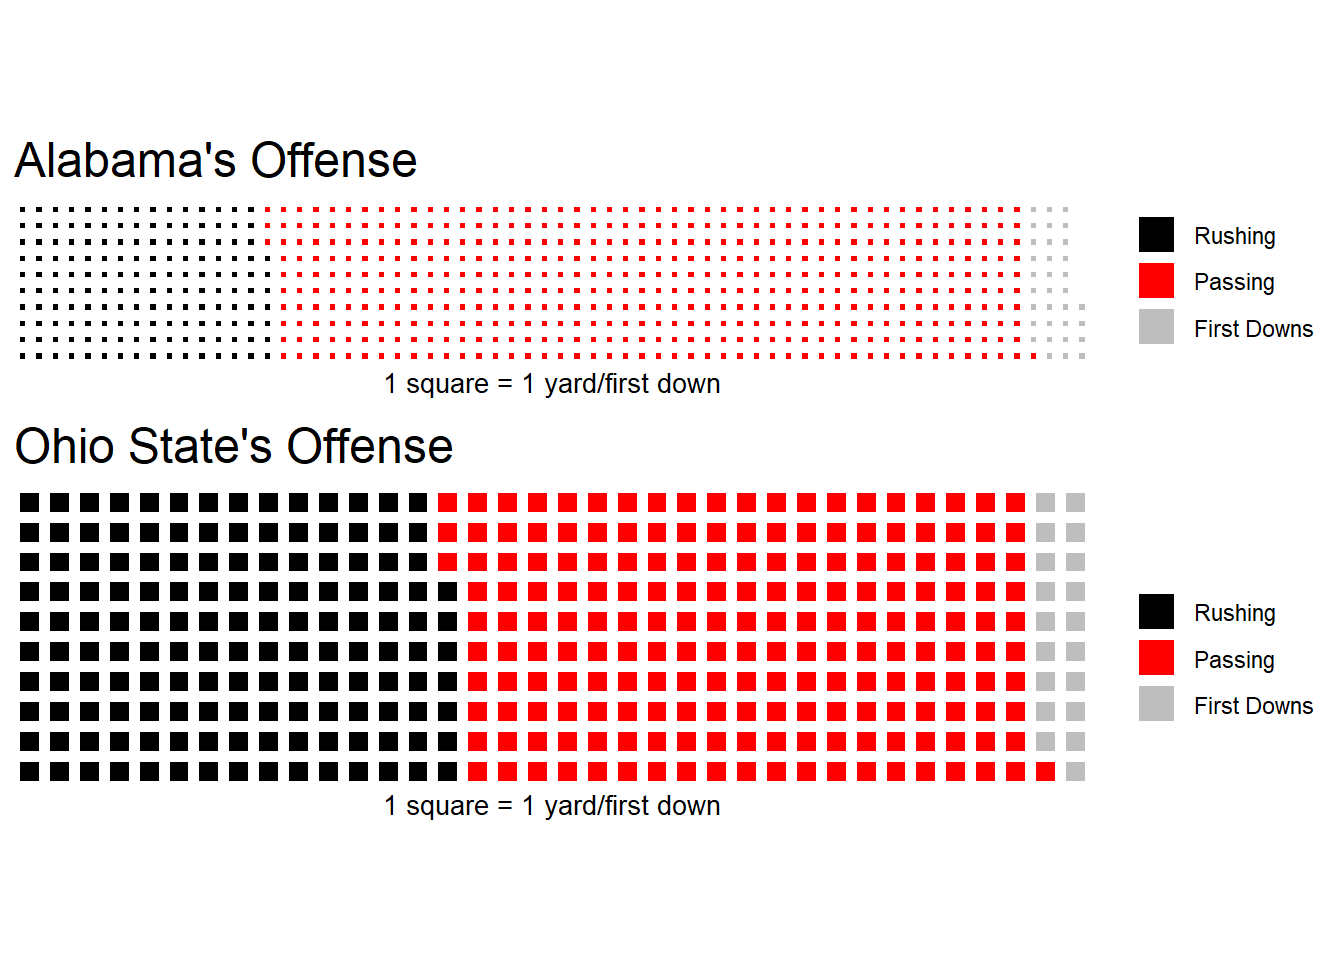
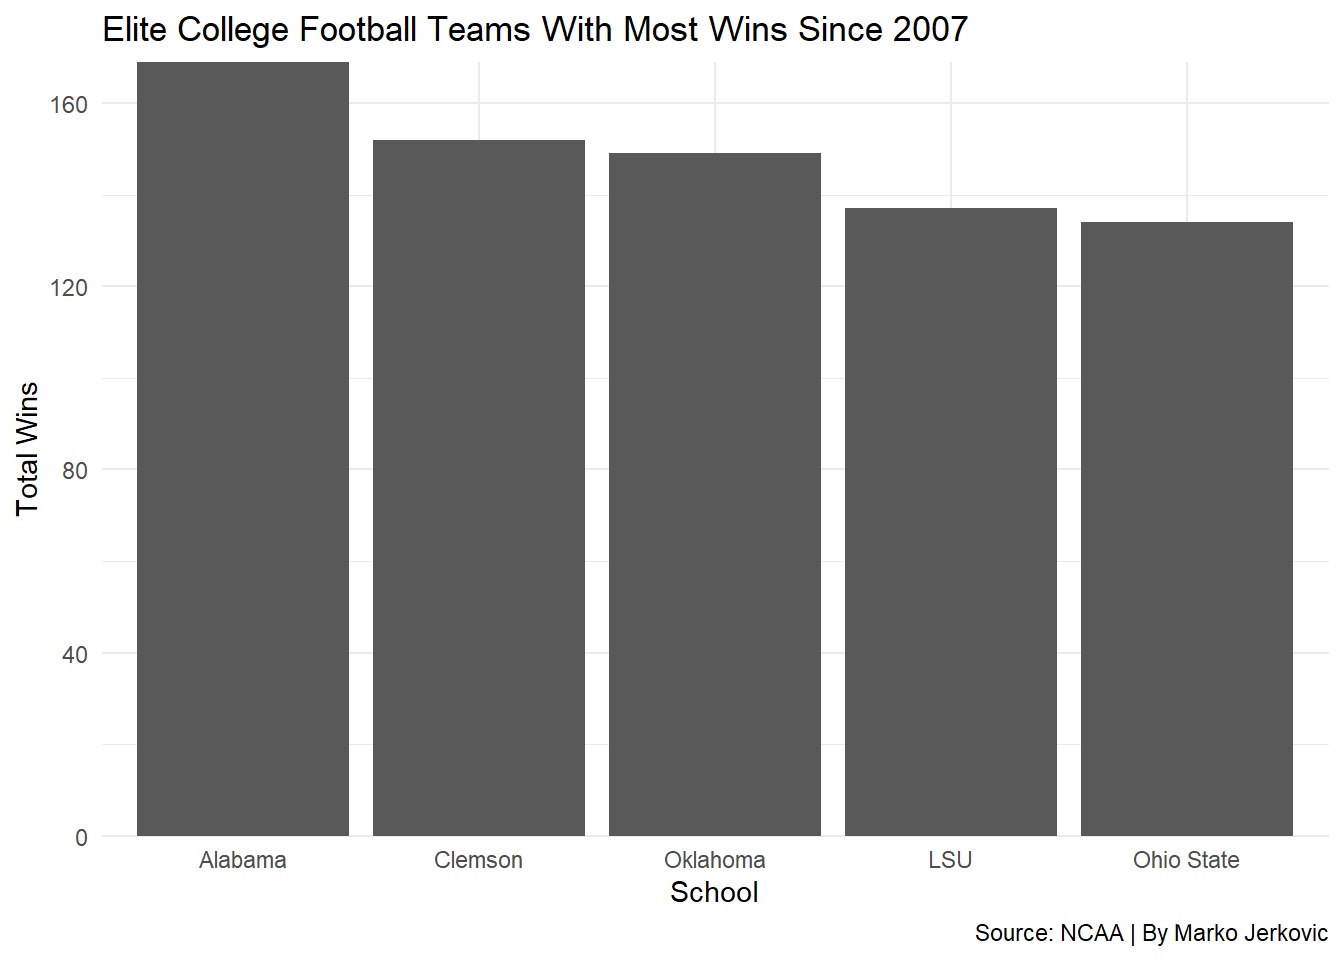
Finishing everything, but for real this time.

diff --git a/2021/04/04/alabama-s-football-dominance/index.html b/2021/04/04/alabama-s-football-dominance/index.html
@@ -6,8 +6,8 @@
 <meta name="generator" content="Hugo 0.81.0" />
 
 
-<title>Alabama&#39;s Football Dominance - Marko Jerkovic&#39;s Gitbub Site</title>
-<meta property="og:title" content="Alabama&#39;s Football Dominance - Marko Jerkovic&#39;s Gitbub Site">
+<title>How Dominant Has Alabama Football Been In the Nick Saban Era? - Marko Jerkovic&#39;s Gitbub Site</title>
+<meta property="og:title" content="How Dominant Has Alabama Football Been In the Nick Saban Era? - Marko Jerkovic&#39;s Gitbub Site">
 
 
   <link href='http://markojerkovic.github.io/favicon.ico' rel='icon' type='image/x-icon'/>
@@ -62,10 +62,10 @@
 
   <article class="article">
     
-    <span class="article-duration">4 min read</span>
+    <span class="article-duration">6 min read</span>
     
 
-    <h1 class="article-title">Alabama&#39;s Football Dominance</h1>
+    <h1 class="article-title">How Dominant Has Alabama Football Been In the Nick Saban Era?</h1>
 
     
     <span class="article-date">2021-04-04</span>
@@ -78,7 +78,7 @@
 <p>The key to prolonged success is adaptability.</p>
 <p>Nick Saban is the greatest college football coach of all time. His Alabama Crimson Tide teams of the last 15 seasons have been some of the greatest of all time, both in their consistency and dominance.</p>
 <p>They haven’t always won the same way. Through the many eras of Nick Saban’s tenure his teams have looked and played drastically different.</p>
-<p>Nick Saban has and always will be a defensive coach and therefore his teams at Alabama for the first decade were dominant defensive and offensively focused on running the ball.</p>
+<p>Nick Saban has and always will be a defensive coach and therefore his teams at Alabama for the first decade were dominant defensive and offensively focused on running the ball and not making mistakes.</p>
 <p>First we can look at this chart and see how Nick Saban’s offenses have performed historically.</p>
 <pre class="r"><code>library(tidyverse)</code></pre>
 <pre><code>## -- Attaching packages --------------------------------------- tidyverse 1.3.0 --</code></pre>
@@ -102,17 +102,9 @@ library(scales)</code></pre>
 <pre><code>## The following object is masked from &#39;package:readr&#39;:
 ## 
 ##     col_factor</code></pre>
+<pre class="r"><code>library(ggbump)</code></pre>
+<pre><code>## Warning: package &#39;ggbump&#39; was built under R version 4.0.4</code></pre>
 <pre class="r"><code>alabama &lt;- read.csv(&quot;data/alabamafootball.csv&quot;)</code></pre>
-<pre class="r"><code>glimpse(alabama)</code></pre>
-<pre><code>## Rows: 14
-## Columns: 5
-## $ Year    &lt;int&gt; 2020, 2019, 2018, 2017, 2016, 2015, 2014, 2013, 2012, 2011,...
-## $ OffRank &lt;int&gt; 2, 2, 3, 15, 16, 30, 16, 17, 12, 20, 18, 22, 35, 65
-## $ PPG     &lt;dbl&gt; 48.5, 47.2, 45.6, 37.1, 38.8, 35.1, 36.9, 38.2, 38.7, 34.8,...
-## $ DefRank &lt;int&gt; 13, 13, 12, 1, 1, 3, 6, 4, 1, 1, 3, 2, 7, 28
-## $ OppPPG  &lt;dbl&gt; 19.4, 18.6, 18.1, 11.9, 13.0, 15.1, 18.4, 13.9, 10.9, 8.2, ...</code></pre>
-<pre class="r"><code>names(alabama)</code></pre>
-<pre><code>## [1] &quot;Year&quot;    &quot;OffRank&quot; &quot;PPG&quot;     &quot;DefRank&quot; &quot;OppPPG&quot;</code></pre>
 <pre class="r"><code>ggplot() + 
   geom_point(
     data=alabama, 
@@ -125,7 +117,9 @@ labs(title=&quot;Alabama&#39;s Offense Under Nick Saban&quot;, subtitle=&quot;Th
     plot.subtitle = element_text(size=10), 
     panel.grid.minor = element_blank()
     )</code></pre>
-<p><img src="http://markojerkovic.github.io/2021/04/04/alabama-s-football-dominance/index_files/figure-html/unnamed-chunk-4-1.png" width="672" /></p>
+<p><img src="http://markojerkovic.github.io/2021/04/04/alabama-s-football-dominance/index_files/figure-html/unnamed-chunk-3-1.png" width="672" /></p>
+<p>As we can see, the offense was consistently above average in the nation in the first ten seasons, but over the last three years, since winning the 2017 National Championship, they’ve become elite.</p>
+<p>Now let’s take a look at how Saban’s defenses have fared over the same stretch.</p>
 <pre class="r"><code>ggplot() + 
   geom_point(
     data=alabama, 
@@ -138,19 +132,22 @@ labs(title=&quot;Alabama&#39;s Defense Under Nick Saban&quot;, subtitle=&quot;It
     plot.subtitle = element_text(size=10), 
     panel.grid.minor = element_blank()
     )</code></pre>
-<p><img src="http://markojerkovic.github.io/2021/04/04/alabama-s-football-dominance/index_files/figure-html/unnamed-chunk-5-1.png" width="672" /></p>
+<p><img src="http://markojerkovic.github.io/2021/04/04/alabama-s-football-dominance/index_files/figure-html/unnamed-chunk-4-1.png" width="672" /></p>
+<p>As we can see, Saban’s defenses quickly became among the best in the nation and did not exit the top 10 again until the 2018 season, just as the offensive improvement began to take shape.</p>
+<p>To show even more context to how dominant Alabama has been we can also look at their final position in the AP Poll every year since 2008.</p>
 <pre class="r"><code>finalrankings &lt;- read.csv(&quot;data/finalrankings.csv&quot;)</code></pre>
-<pre class="r"><code>glimpse(finalrankings)</code></pre>
-<pre><code>## Rows: 13
-## Columns: 2
-## $ Year          &lt;int&gt; 2020, 2019, 2018, 2017, 2016, 2015, 2014, 2013, 2012,...
-## $ Final.Ranking &lt;int&gt; 1, 8, 2, 1, 2, 1, 4, 7, 1, 1, 10, 1, 6</code></pre>
-<pre class="r"><code>names(finalrankings)</code></pre>
-<pre><code>## [1] &quot;Year&quot;          &quot;Final.Ranking&quot;</code></pre>
-<pre class="r"><code>ggplot() + 
-  geom_line(data=finalrankings, aes(x=Year, y=Final.Ranking)) + 
-  scale_y_continuous(limits = c(1, 10))</code></pre>
-<p><img src="http://markojerkovic.github.io/2021/04/04/alabama-s-football-dominance/index_files/figure-html/unnamed-chunk-8-1.png" width="672" /></p>
+<pre class="r"><code>ggplot() + geom_bump(data=finalrankings, aes(x=Year, y=Final.Ranking, color=&quot;Alabama&quot;)) +
+ geom_point(data=finalrankings, aes(x=Year, y=Final.Ranking, color=&quot;Alabama&quot;), size = 4) +  
+scale_y_reverse() +
+labs(title=&quot;End of Season AP Poll Position For Alabama&quot;, subtitle=&quot;Alabama has been unbelievably consistent during the Nick Saban era&quot;, y= &quot;Final Ranking&quot;, x = &quot;Year&quot;, caption=&quot;Source: NCAA | By Marko Jerkovic&quot;) +
+  theme_minimal() +
+  theme(
+    legend.position = &quot;none&quot;,
+    panel.grid.major = element_blank()
+    ) </code></pre>
+<p><img src="http://markojerkovic.github.io/2021/04/04/alabama-s-football-dominance/index_files/figure-html/unnamed-chunk-6-1.png" width="672" /></p>
+<p>As we can see, despite the recent shift from defensive dominance to offensive dominance, the team has remained steady in their success. Alabama has finished the season in the AP Poll Top 10 every season of the Saban era, with the lone exception of 2007, Saban’s first year in Tuscaloosa.</p>
+<p>Now let’s take a look at a smaller and more specific example of Alabama’s shift in philosophy, while maintaining success. For this we will look at Alabama’s first and most recent national championship games, against Texas and Ohio State respectively.</p>
 <pre class="r"><code>al &lt;- c(&quot;Rushing&quot;=205, &quot;Passing&quot;=58, &quot;First Downs&quot;=16)
 tx &lt;- c(&quot;Rushing&quot;=81, &quot;Passing&quot;=195, &quot;First Downs&quot;=15)</code></pre>
 <pre class="r"><code>iron(
@@ -167,7 +164,7 @@ tx &lt;- c(&quot;Rushing&quot;=81, &quot;Passing&quot;=195, &quot;First Downs&qu
         colors = c(&quot;black&quot;, &quot;orange&quot;, &quot;grey&quot;)
         )
 )</code></pre>
-<p><img src="http://markojerkovic.github.io/2021/04/04/alabama-s-football-dominance/index_files/figure-html/unnamed-chunk-10-1.png" width="672" /></p>
+<p><img src="http://markojerkovic.github.io/2021/04/04/alabama-s-football-dominance/index_files/figure-html/unnamed-chunk-8-1.png" width="672" /></p>
 <pre class="r"><code>al &lt;- c(&quot;Rushing&quot;=157, &quot;Passing&quot;=464, &quot;First Downs&quot;=33)
 oh &lt;- c(&quot;Rushing&quot;=147, &quot;Passing&quot;=194, &quot;First Downs&quot;=19)</code></pre>
 <pre class="r"><code>iron(
@@ -184,7 +181,12 @@ oh &lt;- c(&quot;Rushing&quot;=147, &quot;Passing&quot;=194, &quot;First Downs&q
         colors = c(&quot;black&quot;, &quot;red&quot;, &quot;grey&quot;)
         )
 )</code></pre>
-<p><img src="http://markojerkovic.github.io/2021/04/04/alabama-s-football-dominance/index_files/figure-html/unnamed-chunk-12-1.png" width="672" /></p>
+<p><img src="http://markojerkovic.github.io/2021/04/04/alabama-s-football-dominance/index_files/figure-html/unnamed-chunk-10-1.png" width="672" /></p>
+<p>In 2009, the Crimson Tide’s defense and rushing attack trampled the Longhorns in a performance which included forcing five turnovers and four rushing touchdowns, while Greg McElroy floundered with just six completions and 58 passing yards.</p>
+<p>In 2020, Mac Jones and DeVonta Smith torched the Buckeyes, connecting for 215 yards and three touchdowns. Jones threw over 400 more passing yards than McElroy did in 2009, while also throwing five passing touchdowns.</p>
+<p>The most outstanding part for the Crimson Tide was the fact that they still had a strong defensive game and had a comparable rushing attack to that of the Buckeyes.</p>
+<p>This example shows that while Alabama has drastically improved their passing attack, they have remained well above average in their rushing game and on the defensive side of the ball as well.</p>
+<p>Next, we can go back to looking at the big picture, this time with other elite college football programs to compare to Alabama. First, we’ll look at these teams’ total wins since Nick Saban was hired at Alabama in 2007.</p>
 <pre class="r"><code>elite &lt;- read_csv(&quot;data/elitecfbteams.csv&quot;)</code></pre>
 <pre><code>## 
 ## -- Column specification --------------------------------------------------------
@@ -195,36 +197,31 @@ oh &lt;- c(&quot;Rushing&quot;=147, &quot;Passing&quot;=194, &quot;First Downs&q
 ##   `National Championships` = col_double(),
 ##   `Heisman Trophy Finalists` = col_double()
 ## )</code></pre>
-<pre class="r"><code>glimpse(elite)</code></pre>
-<pre><code>## Rows: 5
-## Columns: 5
-## $ Team                       &lt;chr&gt; &quot;Alabama&quot;, &quot;Clemson&quot;, &quot;Ohio State&quot;, &quot;Okl...
-## $ `Total Wins`               &lt;dbl&gt; 169, 152, 134, 149, 137
-## $ `Conference Titles`        &lt;dbl&gt; 7, 7, 8, 7, 3
-## $ `National Championships`   &lt;dbl&gt; 6, 2, 1, 0, 2
-## $ `Heisman Trophy Finalists` &lt;dbl&gt; 8, 3, 3, 6, 2</code></pre>
-<pre class="r"><code>names(elite)</code></pre>
-<pre><code>## [1] &quot;Team&quot;                     &quot;Total Wins&quot;              
-## [3] &quot;Conference Titles&quot;        &quot;National Championships&quot;  
-## [5] &quot;Heisman Trophy Finalists&quot;</code></pre>
 <pre class="r"><code>ggplot() + 
   geom_bar(data=elite, aes(x=reorder(Team, - `Total Wins`), weight=`Total Wins`)) + 
   scale_y_continuous(labels=comma, expand = c(0,0)) + 
   labs(
     title=&quot;Elite College Football Teams With Most Wins Since 2007&quot;, 
     x=&quot;School&quot;, 
-    y=&quot;Total Wins&quot;) +
+    y=&quot;Total Wins&quot;,
+    caption=&quot;Source: NCAA | By Marko Jerkovic&quot;) +
   theme_minimal()</code></pre>
-<p><img src="http://markojerkovic.github.io/2021/04/04/alabama-s-football-dominance/index_files/figure-html/unnamed-chunk-15-1.png" width="672" /></p>
+<p><img src="http://markojerkovic.github.io/2021/04/04/alabama-s-football-dominance/index_files/figure-html/unnamed-chunk-12-1.png" width="672" /></p>
+<p>As we can see, with 169 total wins since 2007, Alabama is far ahead of the pack, with Clemson the next closest at 152 total wins over the same span.</p>
+<p>Lastly, we’ll look at the most impressive stat of the Nick Saban era at Alabama, national championships.</p>
 <pre class="r"><code>ggplot() + 
   geom_bar(data=elite, aes(x=reorder(Team, - `National Championships`), weight=`National Championships`)) + 
   scale_y_continuous(labels=comma, expand = c(0,0)) + 
   labs(
     title=&quot;College Football Teams With Most National Championships Since 2007&quot;, 
     x=&quot;School&quot;, 
-    y=&quot;Total Wins&quot;) +
+    y=&quot;Total Wins&quot;, 
+    caption=&quot;Source: NCAA | By Marko Jerkovic&quot;) +
   theme_minimal()</code></pre>
-<p><img src="http://markojerkovic.github.io/2021/04/04/alabama-s-football-dominance/index_files/figure-html/unnamed-chunk-16-1.png" width="672" /></p>
+<p><img src="http://markojerkovic.github.io/2021/04/04/alabama-s-football-dominance/index_files/figure-html/unnamed-chunk-13-1.png" width="672" /></p>
+<p>Impressively, Alabama has more national championships than Clemson, LSU, Ohio State and Oklahoma combined since 2007. Nick Saban has clearly outcoached and outclassed all of his contemporaries during his time at Alabama.</p>
+<p>Nick Saban’s tenure at Alabama has been the most dominant of this era of college football and is one of the dominant runs of all time.</p>
+<p>One last interesting piece of information, Nick Saban is only 70 years old and has said that he hopes to coach as long as he can. For the rest of college football, that’s the scariest stat of all.</p>
 
     </div>
   </article>
@@ -261,9 +258,6 @@ oh &lt;- c(&quot;Rushing&quot;=147, &quot;Passing&quot;=194, &quot;First Downs&q
 
 
     
-<script src="/js/math-code.js"></script>
-<script async src="//cdnjs.cloudflare.com/ajax/libs/mathjax/2.7.5/MathJax.js?config=TeX-MML-AM_CHTML"></script>
-
 
     
   </body>

diff --git a/categories/r/index.html b/categories/r/index.html
@@ -72,7 +72,7 @@
     </article>
     
     <article class="archive-item">
-      <a href="/2021/04/04/alabama-s-football-dominance/" class="archive-item-link">Alabama&#39;s Football Dominance</a>
+      <a href="/2021/04/04/alabama-s-football-dominance/" class="archive-item-link">How Dominant Has Alabama Football Been In the Nick Saban Era?</a>
       <span class="archive-item-date">
         2021-04-04
       </span>

diff --git a/index.html b/index.html
@@ -75,7 +75,7 @@
     </article>
     
     <article class="archive-item">
-      <a href="/2021/04/04/alabama-s-football-dominance/" class="archive-item-link">Alabama&#39;s Football Dominance</a>
+      <a href="/2021/04/04/alabama-s-football-dominance/" class="archive-item-link">How Dominant Has Alabama Football Been In the Nick Saban Era?</a>
       <span class="archive-item-date">
         2021-04-04
       </span>

diff --git a/post/index.html b/post/index.html
@@ -72,7 +72,7 @@
     </article>
     
     <article class="archive-item">
-      <a href="/2021/04/04/alabama-s-football-dominance/" class="archive-item-link">Alabama&#39;s Football Dominance</a>
+      <a href="/2021/04/04/alabama-s-football-dominance/" class="archive-item-link">How Dominant Has Alabama Football Been In the Nick Saban Era?</a>
       <span class="archive-item-date">
         2021-04-04
       </span>

diff --git a/tags/alabama-football/index.html b/tags/alabama-football/index.html
@@ -72,7 +72,7 @@
     </article>
     
     <article class="archive-item">
-      <a href="/2021/04/04/alabama-s-football-dominance/" class="archive-item-link">Alabama&#39;s Football Dominance</a>
+      <a href="/2021/04/04/alabama-s-football-dominance/" class="archive-item-link">How Dominant Has Alabama Football Been In the Nick Saban Era?</a>
       <span class="archive-item-date">
         2021-04-04
       </span>

diff --git a/tags/college-football/index.html b/tags/college-football/index.html
@@ -72,7 +72,7 @@
     </article>
     
     <article class="archive-item">
-      <a href="/2021/04/04/alabama-s-football-dominance/" class="archive-item-link">Alabama&#39;s Football Dominance</a>
+      <a href="/2021/04/04/alabama-s-football-dominance/" class="archive-item-link">How Dominant Has Alabama Football Been In the Nick Saban Era?</a>
       <span class="archive-item-date">
         2021-04-04
       </span>

diff --git a/tags/nick-saban/index.html b/tags/nick-saban/index.html
@@ -72,7 +72,7 @@
     </article>
     
     <article class="archive-item">
-      <a href="/2021/04/04/alabama-s-football-dominance/" class="archive-item-link">Alabama&#39;s Football Dominance</a>
+      <a href="/2021/04/04/alabama-s-football-dominance/" class="archive-item-link">How Dominant Has Alabama Football Been In the Nick Saban Era?</a>
       <span class="archive-item-date">
         2021-04-04
       </span>
